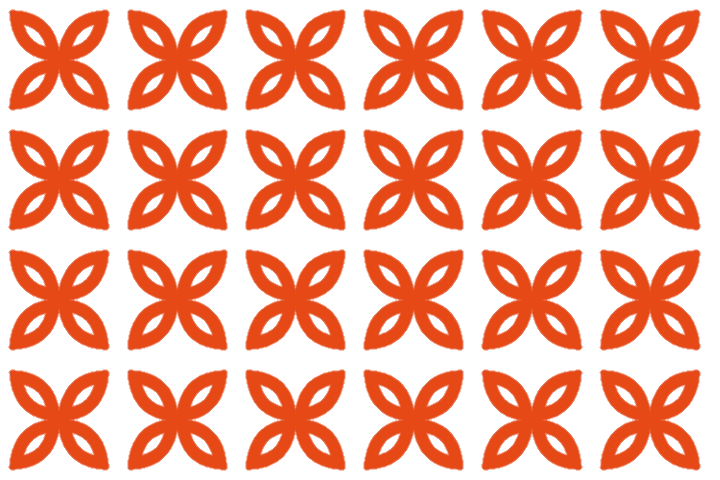
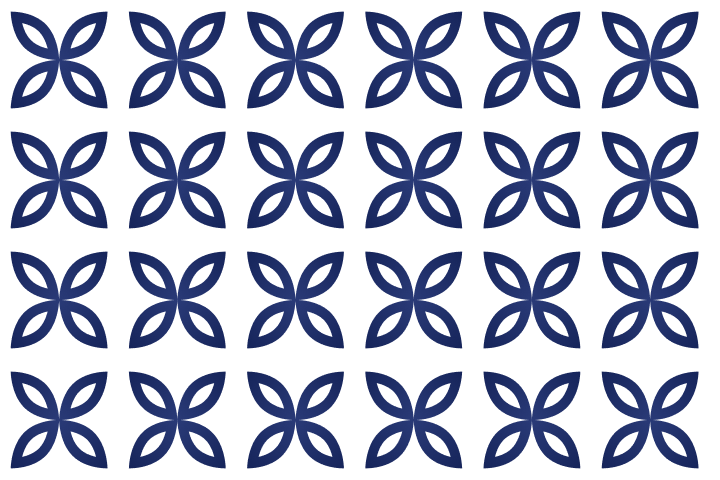
feat: revamp login page UI

diff --git a/src/components/Layouts/AuthLayout/index.tsx b/src/components/Layouts/AuthLayout/index.tsx
@@ -8,7 +8,7 @@ export default function AuthLayout({
   const activeIndex = 0;
   const slideProps = [
     {
-      img: '/BannerKMS.png',
+      img: '/BannerKMSV2.png',
       title: 'Knowledge Management System',
       description:
         'Wadah bersosialisasi dan berkomunikasi sesama pegawai',
@@ -27,7 +27,7 @@ export default function AuthLayout({
         className="relative min-h-screen w-7/12"
         style={{
           background:
-            'linear-gradient(156.04deg, #016DB2 0%, #003F80 100%)',
+            'linear-gradient(156deg, #334A9F 0%, #0D1D58 100%)',
         }}
       >
         <div className="relative z-[2] flex h-full flex-col items-center justify-center gap-8 text-center text-base-white">
@@ -49,7 +49,7 @@ export default function AuthLayout({
           </div>
         </div>
         <img
-          src="/AuthPageOrnament.png"
+          src="/AuthPageOrnamentV2.png"
           alt="ornament"
           className="absolute bottom-0 right-0 z-[1]"
         />
